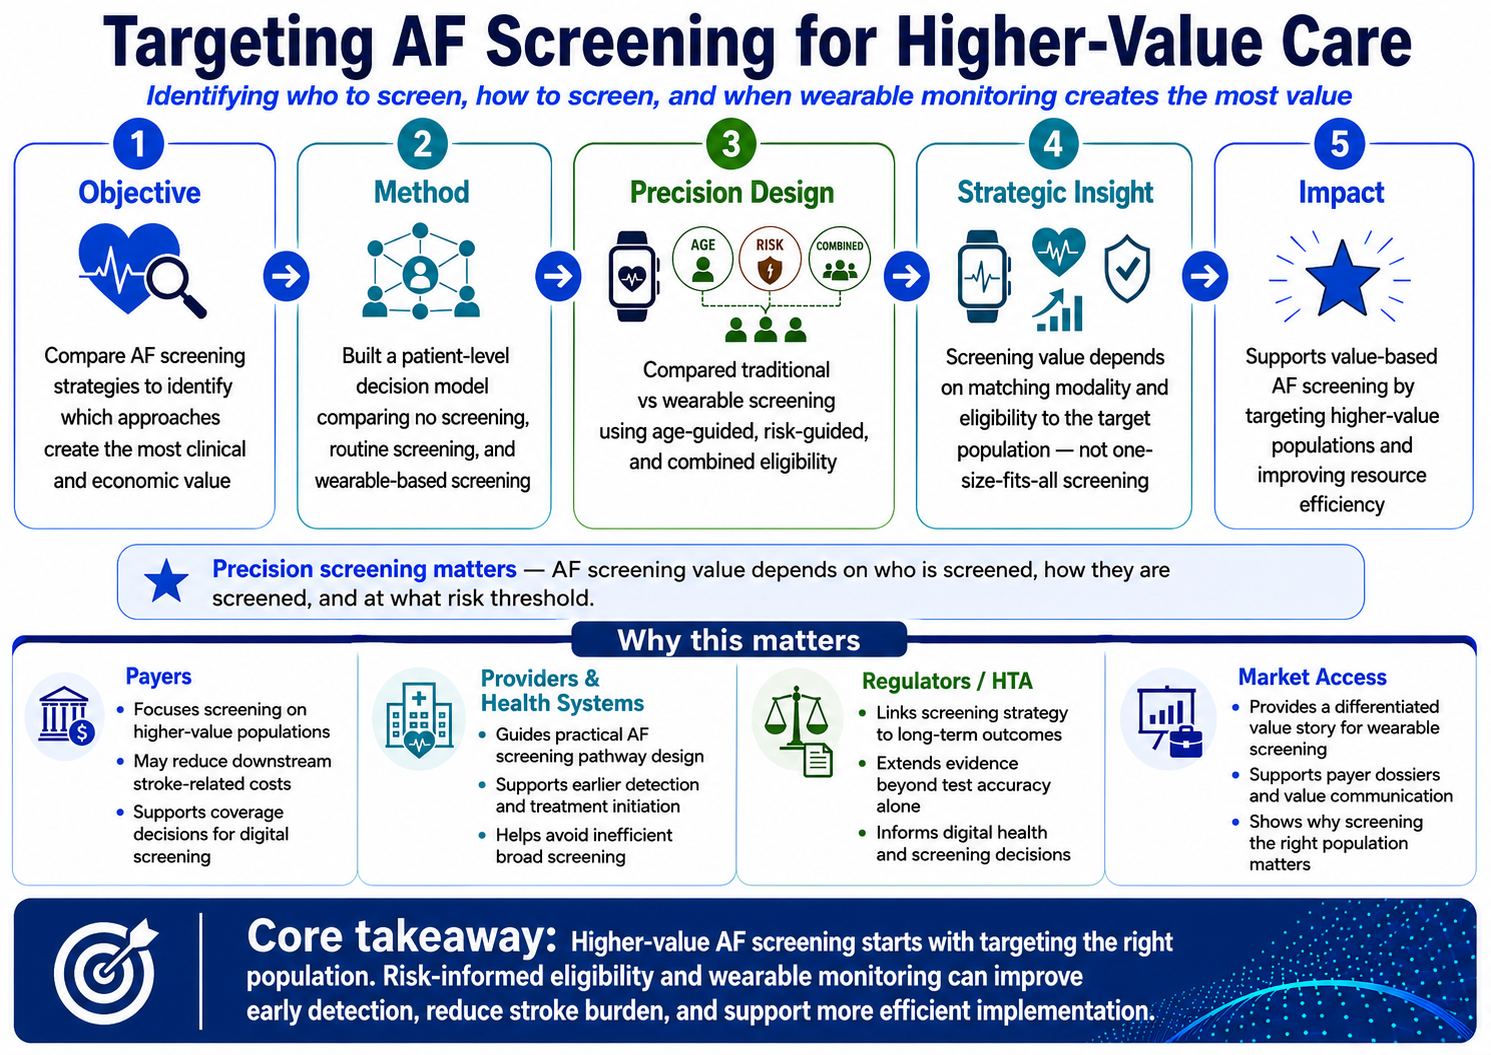
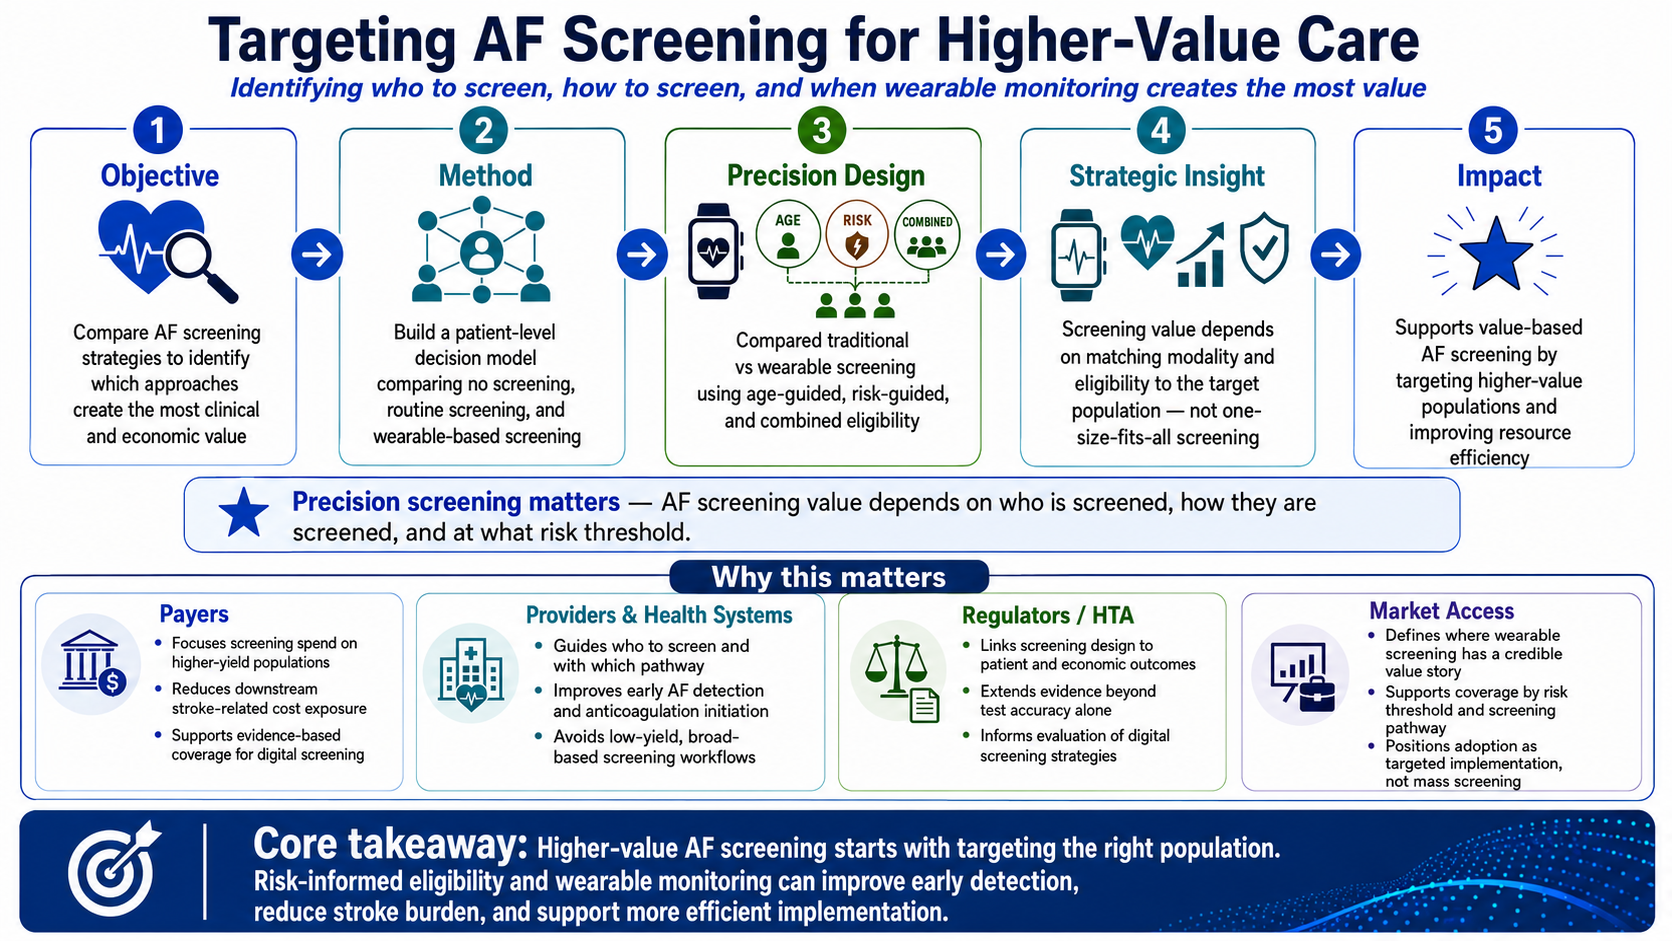
setup

diff --git a/index.html b/index.html
@@ -84,10 +84,10 @@
     <section class="section" id="portfolio">
       <div class="section-heading split"><div><p class="eyebrow">Featured Portfolio</p><h2>Selected Work</h2><p>Projects that connect evidence to strategy.</p></div></div>
       <div class="project-grid">
-        <article class="project-card"><img src="assets/rezdiffra-mash.jpg" alt="Rezdiffra MASH liver transplant system impact visualization"><div><h3>Rezdiffra: System-Level Value in MASH</h3><p>Built a synthetic liver allocation model to show how earlier MASH treatment may reduce <strong>transplant pressure</strong> and create broader system value.</p><div class="tags"><span>Simulation</span><span>HEOR</span><span>MASH</span><span>Liver Transplant</span></div><a class="card-button" href="#rezdiffra-case">View Diagram & Impact</a></div></article>
-        <article class="project-card"><img src="assets/af-screening.jpg" alt="AF screening higher-value care visualization"><div><h3>Targeting AF Screening for Higher-Value Care</h3><p>Identified who to screen, how to screen, and when <strong>precision screening</strong> with wearable monitoring creates the most value.</p><div class="tags"><span>Wearables</span><span>Screening</span><span>Diagnostics</span><span>AF</span></div><a class="card-button" href="#af-screening-case">View Diagram & Impact</a></div></article>
-        <article class="project-card"><img src="assets/wegovy-mash.jpg" alt="Wegovy semaglutide cost-effectiveness visualization"><div><h3>Wegovy: High-Value Care for MASH</h3><p>Modeled how fibrosis stage and pricing shape semaglutide’s <strong>economic and market access value.</strong></p><div class="tags"><span>CEA</span><span>Pricing</span><span>Access</span><span>MFN</span></div><a class="card-button" href="#wegovy-case">View Diagram & Impact</a></div></article>
-        <article class="project-card"><img src="assets/medicaid-mental-health.jpg" alt="Medicaid claims pediatric mental health visualization"><div><h3>Medicaid Claims & Pediatric Mental Health</h3><p>Used Medicaid claims to map <strong>care patterns</strong>, identify high-need populations, and reveal care coordination opportunities.</p><div class="tags"><span>RWE</span><span>Claims</span><span>Pediatrics</span><span>Medicaid</span></div><a class="card-button" href="#medicaid-case">View Diagram & Impact</a></div></article>
+        <article class="project-card"><img src="assets/mash-lt.png" alt="Rezdiffra MASH liver transplant system impact visualization"><div><h3>Rezdiffra: System-Level Value in MASH</h3><p>Built a synthetic liver allocation model to show how earlier MASH treatment may reduce <strong>transplant pressure</strong> and create broader system value.</p><div class="tags"><span>Simulation</span><span>HEOR</span><span>MASH</span><span>Liver Transplant</span></div><a class="card-button" href="#rezdiffra-case">View Diagram & Impact</a></div></article>
+        <article class="project-card"><img src="assets/af-screening.png" alt="AF screening higher-value care visualization"><div><h3>Targeting AF Screening for Higher-Value Care</h3><p>Identified who to screen, how to screen, and when <strong>precision screening</strong> with wearable monitoring creates the most value.</p><div class="tags"><span>Wearables</span><span>Screening</span><span>Diagnostics</span><span>AF</span></div><a class="card-button" href="#af-screening-case">View Diagram & Impact</a></div></article>
+        <article class="project-card"><img src="assets/cea-wegovy.png" alt="Wegovy semaglutide cost-effectiveness visualization"><div><h3>Wegovy: High-Value Care for MASH</h3><p>Modeled how fibrosis stage and pricing shape semaglutide’s <strong>economic and market access value.</strong></p><div class="tags"><span>CEA</span><span>Pricing</span><span>Access</span><span>MFN</span></div><a class="card-button" href="#wegovy-case">View Diagram & Impact</a></div></article>
+        <article class="project-card"><img src="assets/mh-care.png" alt="Medicaid claims pediatric mental health visualization"><div><h3>Medicaid Claims & Pediatric Mental Health</h3><p>Used Medicaid claims to map <strong>care patterns</strong>, identify high-need populations, and reveal care coordination opportunities.</p><div class="tags"><span>RWE</span><span>Claims</span><span>Pediatrics</span><span>Medicaid</span></div><a class="card-button" href="#medicaid-case">View Diagram & Impact</a></div></article>
       </div>
     </section>
 
@@ -128,7 +128,7 @@
         <h2>Turning Wegovy (Semaglutide) into High-Value Care for MASH</h2>
       </div>
       <div class="case-layout simplified">
-        <img src="assets/semaglutide-cea.png" alt="Semaglutide cea">
+        <img src="assets/cea-wegovy.png" alt="Semaglutide cea">
         <div>
           <p><strong>Decision problem:</strong> At which fibrosis stage and price point does Wegovy become a high-value MASH therapy for payers and access decision-makers?</p>
           <p> A lifetime value model translating semaglutide’s clinical efficacy into payer-relevant evidence across fibrosis stages and pricing scenarios. </p>
@@ -181,12 +181,14 @@
     </section>
 
     <section class="contact section" id="contact">
-      <div><p class="eyebrow">Contact</p><h2>I’d love to connect!</h2></div>
-      <div class="contact-card"><a href="mailto:[email redacted]">Email: [email redacted]</a><a href="https://www.linkedin.com/in/danielkim0116/"><em>LinedIn Profile</em></a><span>Current Location: Boston, MA</span></div>
+      <div><p class="eyebrow">Contact</p><h2>I’d love to connect!</h2>
+      <p> <em> Currently looking for new opportunities!</em></p>
+      </div>
+      <div class="contact-card"><a href="mailto:[email redacted]">Email: [email redacted]</a><a href="https://www.linkedin.com/in/danielkim0116/"><em>To my LinkedIn Profile</em></a><span>Current Location: Boston, MA, USA</span></div>
     </section>
   </main>
 
-  <footer>© <span id="year"></span> Daniel Kim. All rights reserved.</footer>
+  <footer>© <span id="year"></span> Daniel Kim. All rights reserved. <strong>Last Updated: May 2026</strong></footer>
   <script src="script.js"></script>
 </body>
 </html>